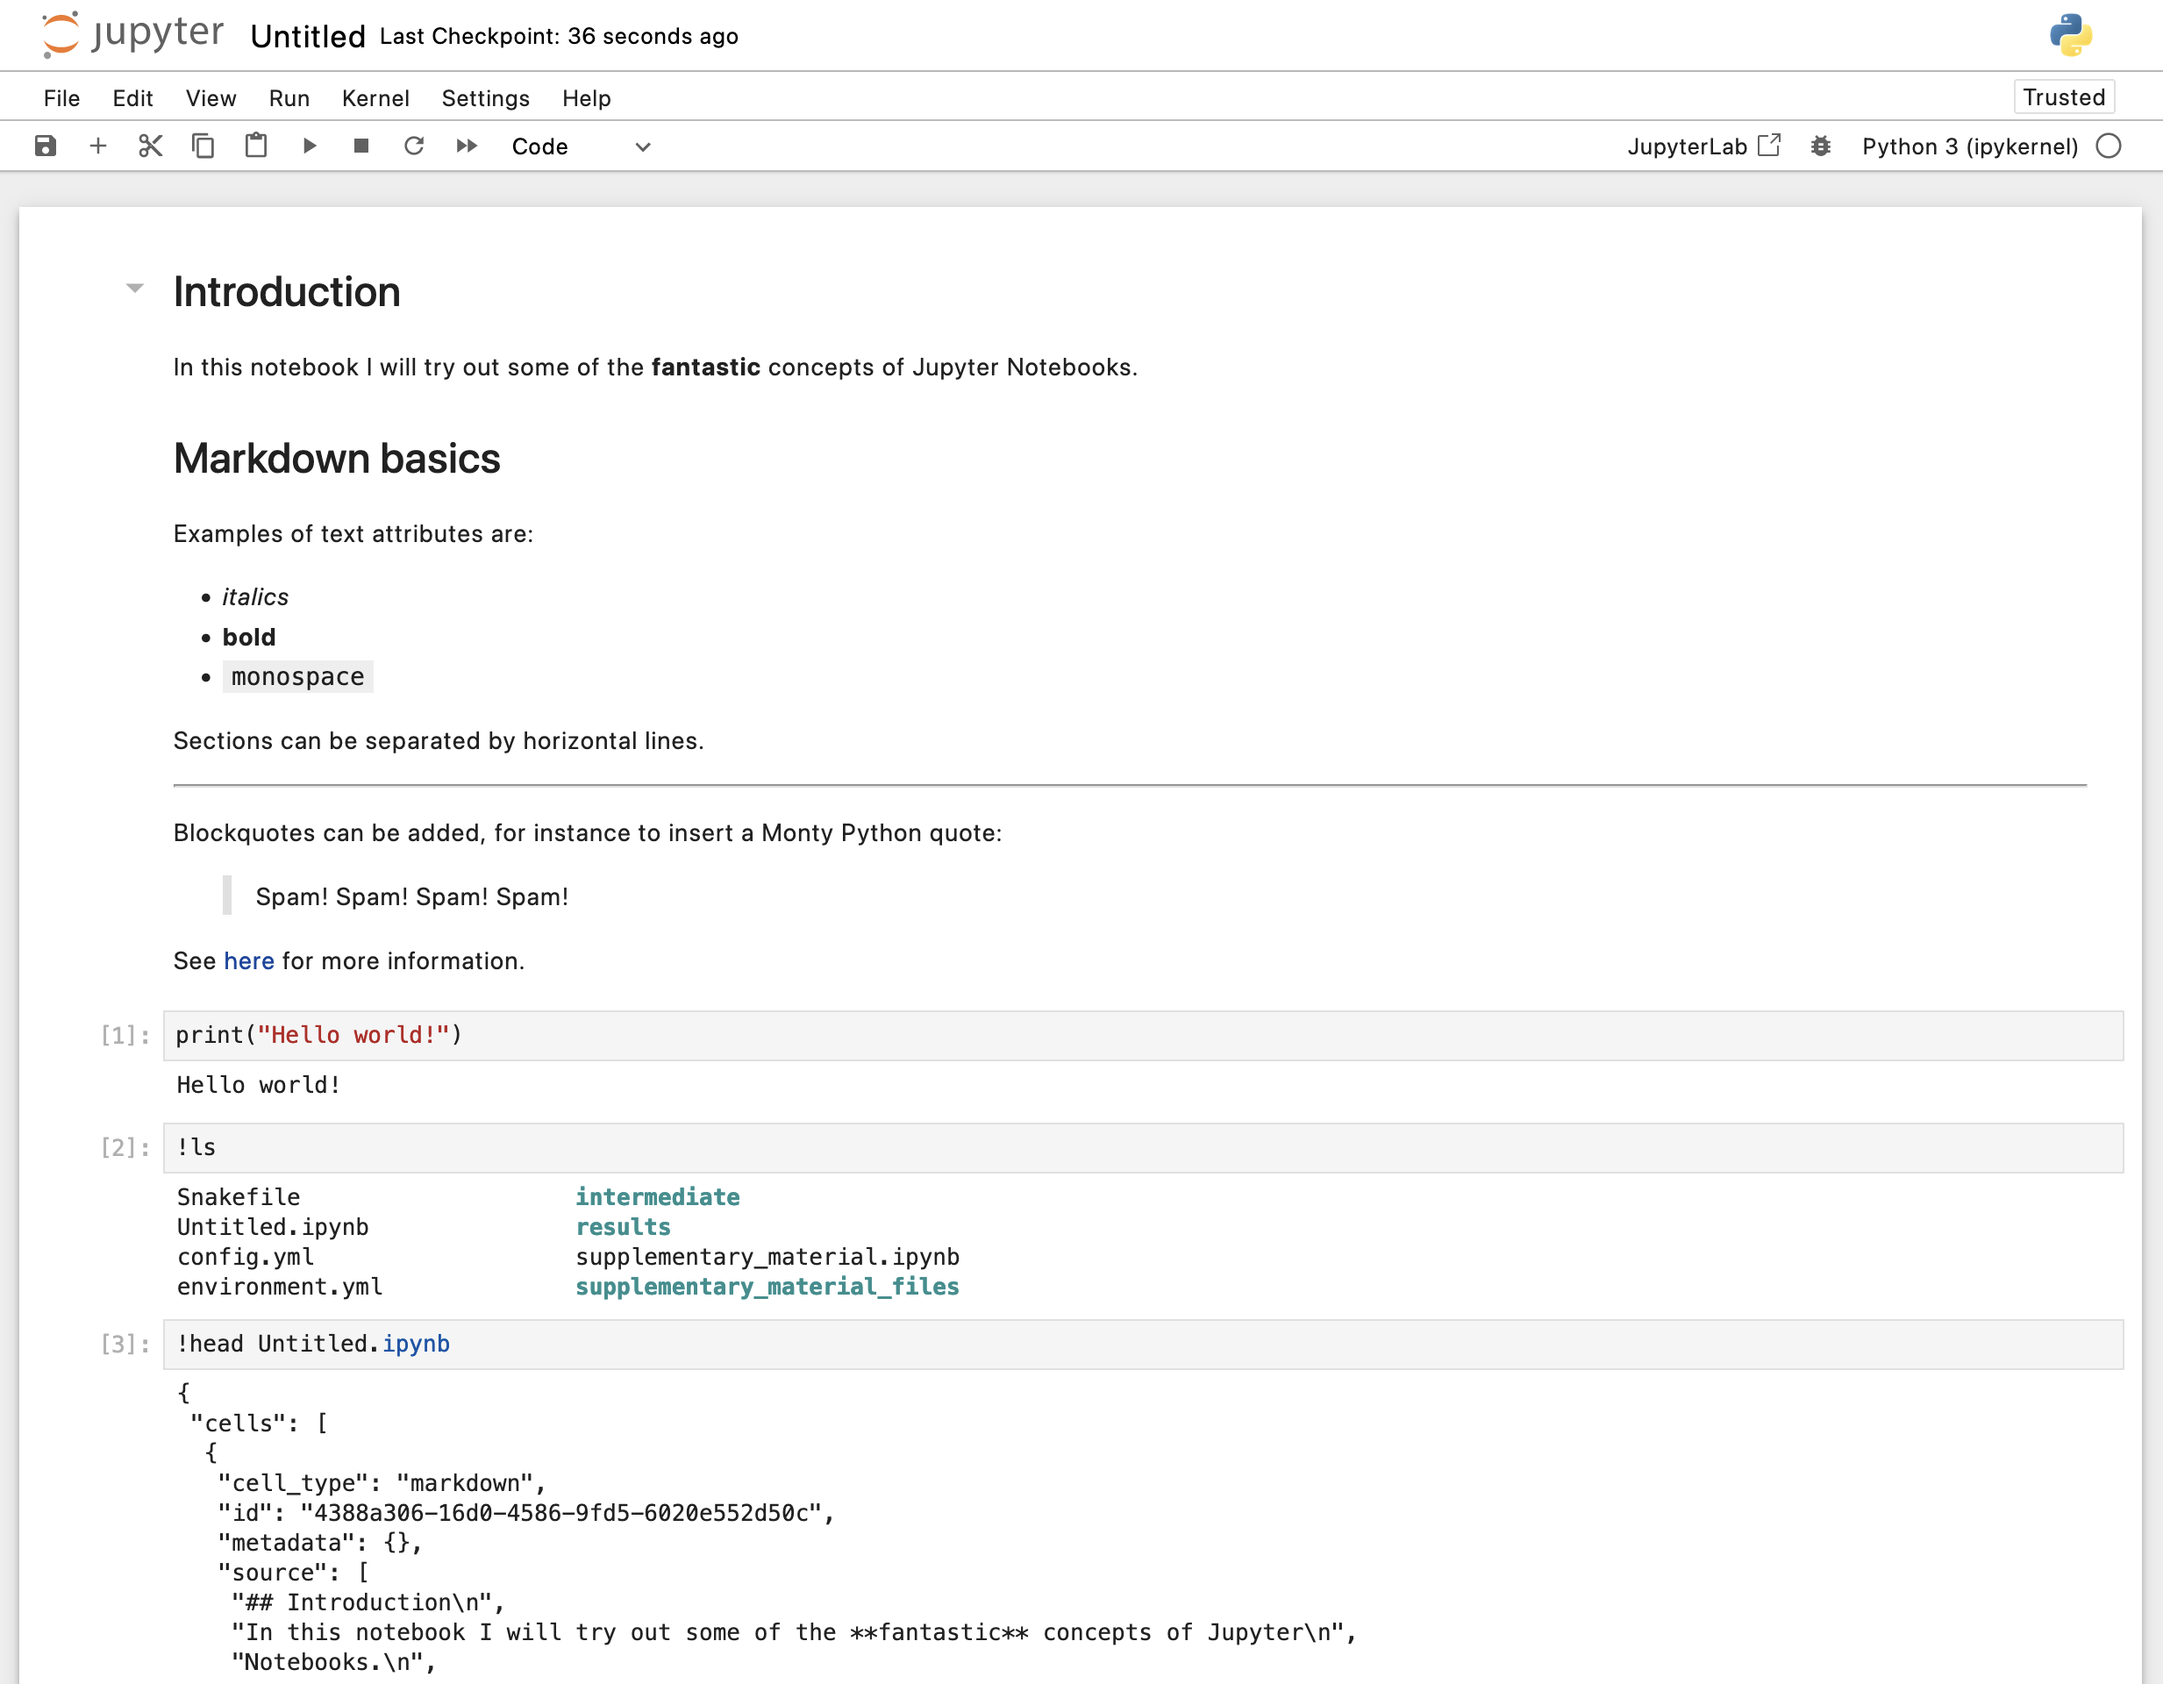
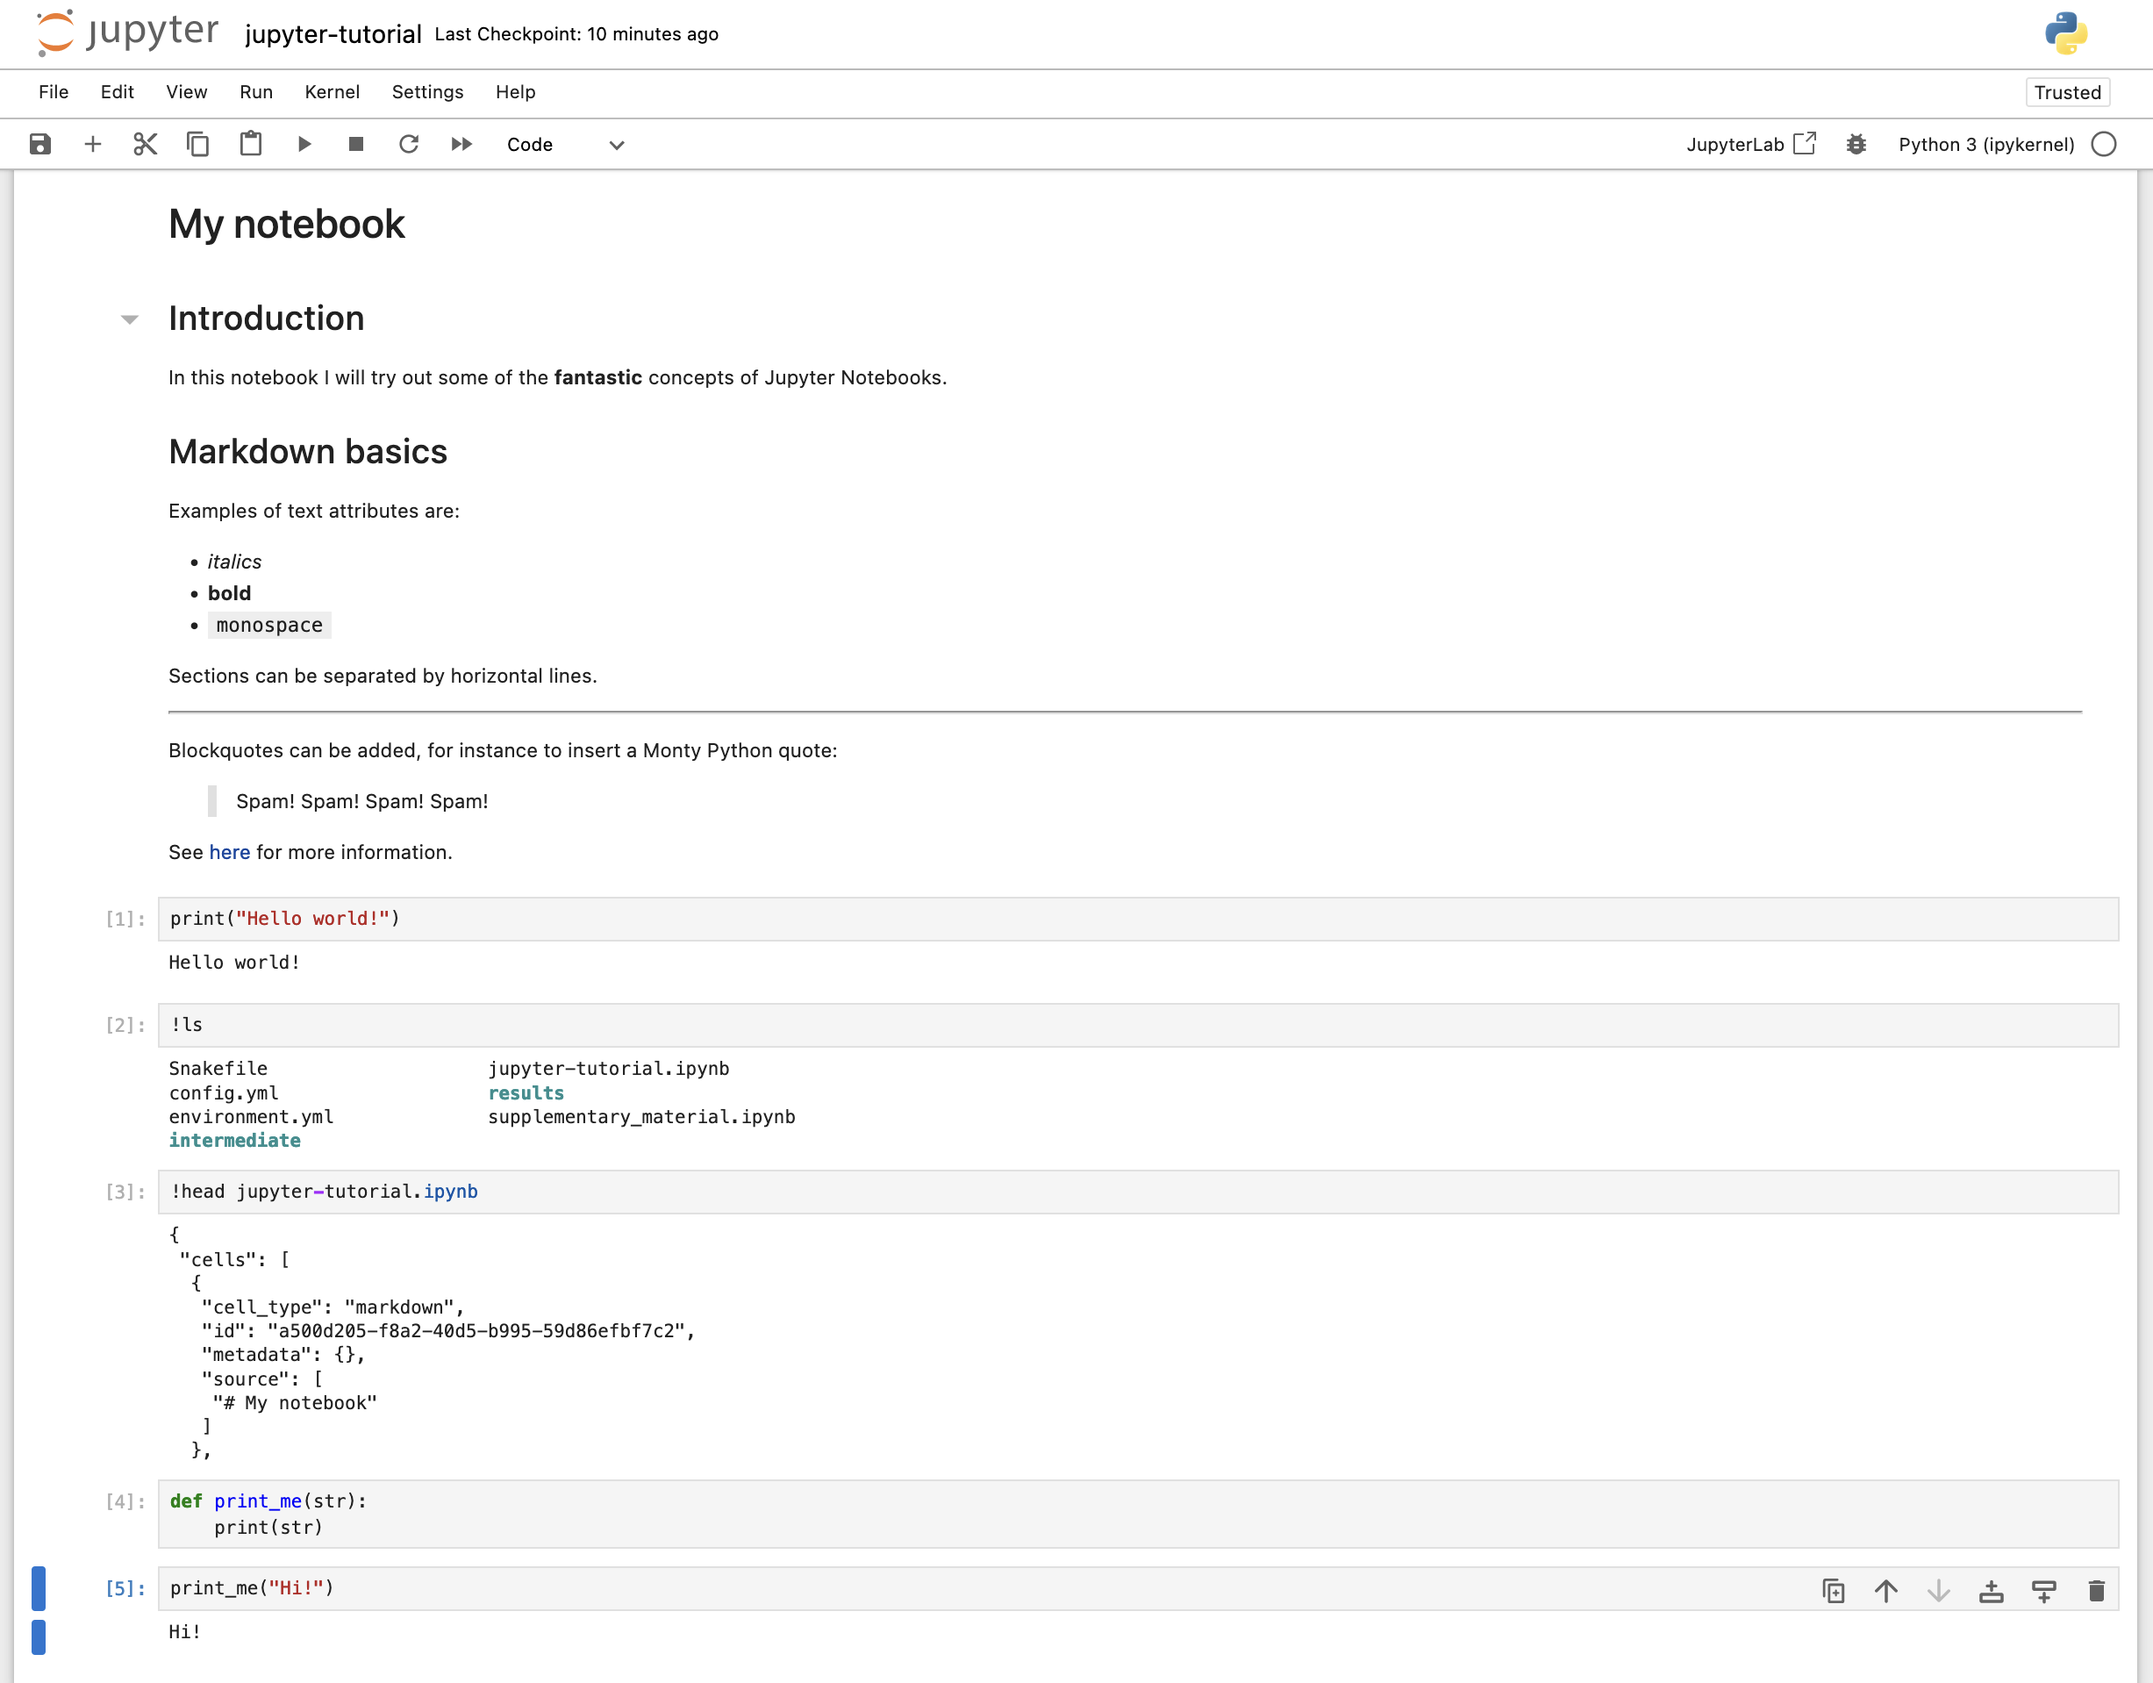
Update tutorial to be more in line with quarto

diff --git a/pages/jupyter/jupyter-2-the-basics.md b/pages/jupyter/jupyter-2-the-basics.md
@@ -36,6 +36,14 @@ printed to your terminal:
 > Jupyter with `jupyter notebook --no-browser` then copy the URL given into the
 > browser directly.
 
+
+> **Jupyter notebook versions** <br>
+> Depending on what version of the `notebook` conda package you have installed,
+> the interface may look slightly different. The screenshots in this tutorial
+> are from version 7, an update which has brought the 'classic' Jupyter notebook
+> closer to the Jupyter lab interface. Read more about this update at the
+> [Jupyter homepage](https://jupyter-notebook.readthedocs.io/en/latest/migrate_to_notebook7.html).
+
 The Jupyter Notebook/Lab interface probably opened up a web browser for you
 automatically, otherwise go to the address specified in the message in the
 terminal. Note that the server is running locally (as
@@ -66,6 +74,9 @@ suggested Python 3 kernel from the drop-down menu.
 This will open up a new tab or window looking like this:
 
 > ![](images/jupyter_empty_nb.png){ width=700px }
+
+Start by giving your notebook a name by clicking on the text "Untitled" at the
+top of the page. Enter "jupyter-tutorial.ipynb".
 
 Note that for most of this tutorial we will describe how you work in the actual
 notebook and not devote a lot of time to the extra features available in the
@@ -178,12 +189,11 @@ the menus. You can also view this list of shortcuts from the **Help** menu under
 
 ## Writing markdown
 
-Let's use our first cell to create a header. Change the format from
-Code to Markdown using the drop-down list in the Notebook Toolbar, or by
-pressing the `m` key when in command mode. Double click on
-the cell, or hit `enter` to enter editing mode (green frame) and input
-"# My notebook" ("#" is used in Markdown for header 1). Run the cell with
-`ctrl`-`enter`.
+Let's use our first cell to create a header. Change the format from Code to
+Markdown using the drop-down list in the Notebook Toolbar, or by pressing the
+`m` key when in command mode. Double click on the cell, or hit `enter` to enter
+editing mode and input "# My notebook" ("#" is used in Markdown for header 1).
+Run the cell with `ctrl`-`enter` (`cmd`-`enter` on Mac).
 
 Markdown is a simple way to structure your notebook into sections with
 descriptive notes, lists, links, images etc.
@@ -228,23 +238,22 @@ it:
 print("Hello world!")
 ```
 
-Note how the output is displayed below the cell. This interactive way of working
-is one of the things that sets Jupyter Notebook apart from RStudio and R
-Markdown. R Markdown is typically rendered top-to-bottom in one run, while you
-work *in* a Jupyter notebook in a different way. This requires some special
+Note how the output is directly displayed below the cell. This interactive way
+of working is one of the things that sets Jupyter Notebook apart from RStudio
+and R Markdown. R Markdown is typically rendered top-to-bottom in one run, while
+you work *in* a Jupyter notebook in a different way. This requires some special
 attention when it comes to reproducibility, which we will get back to in the
 [reproducibility](jupyter-7-reproducibility) section.
 
-What **is** a Jupyter notebook? Let's look a little at the notebook we're
+What **is** a Jupyter notebook? Let's look a closer at the notebook we're
 currently working in. Jupyter Notebooks are autosaved every minute or so, so you
 will already have it available. We can be a little meta and do this from within
-the notebook itself. We do it by running some shell commands in the third code
-cell instead of Python code. This very handy functionality is possible by
-prepending the command with `!`. Try `!ls` to list the files in the current
-directory.
+the notebook itself, by running some shell commands in a code cell. This very
+handy functionality is possible by prepending the command with `!`. Try adding
+`!ls` to a code cell and run it. This will list the files in the current directory.
 
-Aha, we have a new file called `Untitled.ipynb`! This is our notebook. Look at
-the first ten lines of the file by using `!head Untitled.ipynb`. Seems like it's
+Aha, we have a new file called `jupyter-tutorial.ipynb`! This is our notebook. Look at
+the first ten lines of the file by using `!head jupyter-tutorial.ipynb`. Seems like it's
 just a plain old JSON file. Since it's a text file it's suitable for version
 control with for example Git. There are however some special considerations to
 take into account for Notebooks which we will cover in the [reproducibility
@@ -270,10 +279,10 @@ Your notebook should now look something like this.
 
 > ![](images/jupyter_basic_update.png){ width=700px }
 
-The focus of this tutorial is not on how to write Markdown or Python; you can make really
-pretty notebooks with Markdown and you can code whatever you want with Python.
-Rather, we will focus on the Jupyter Notebook features that allow you to do
-a little more than that.
+The focus of this tutorial is not on how to write Markdown or Python; you can
+make really pretty notebooks with Markdown and you can code whatever you want
+with Python. Rather, we will focus on the Jupyter Notebook features that allow
+you to do a little more than that.
 
 > **Quick recap** <br>
 > In this section we've learned:
